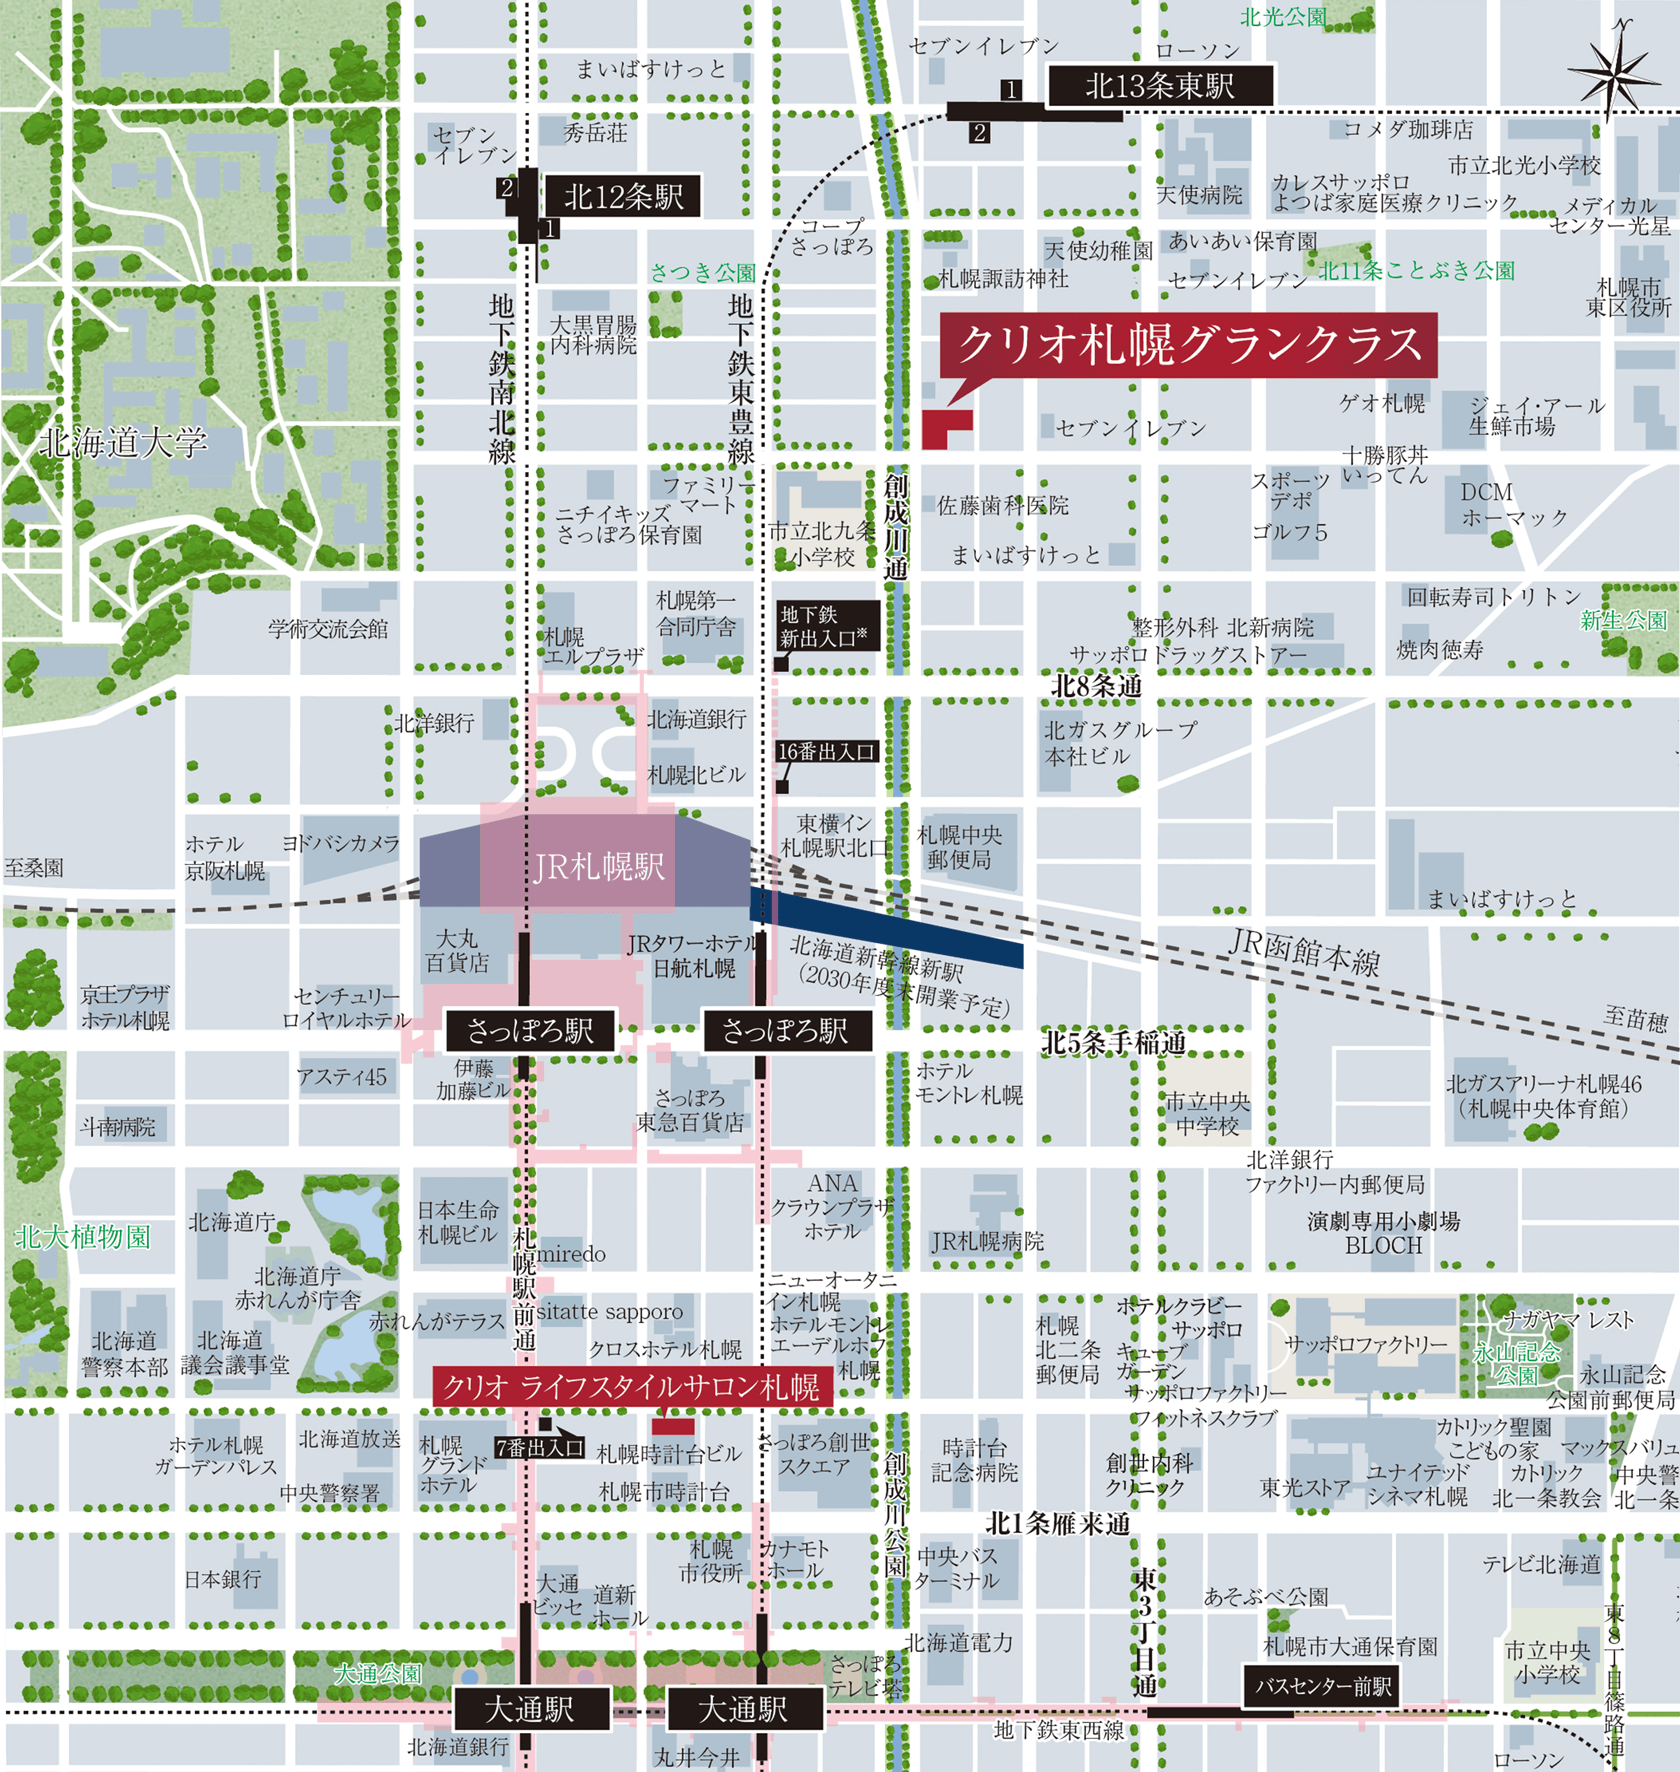
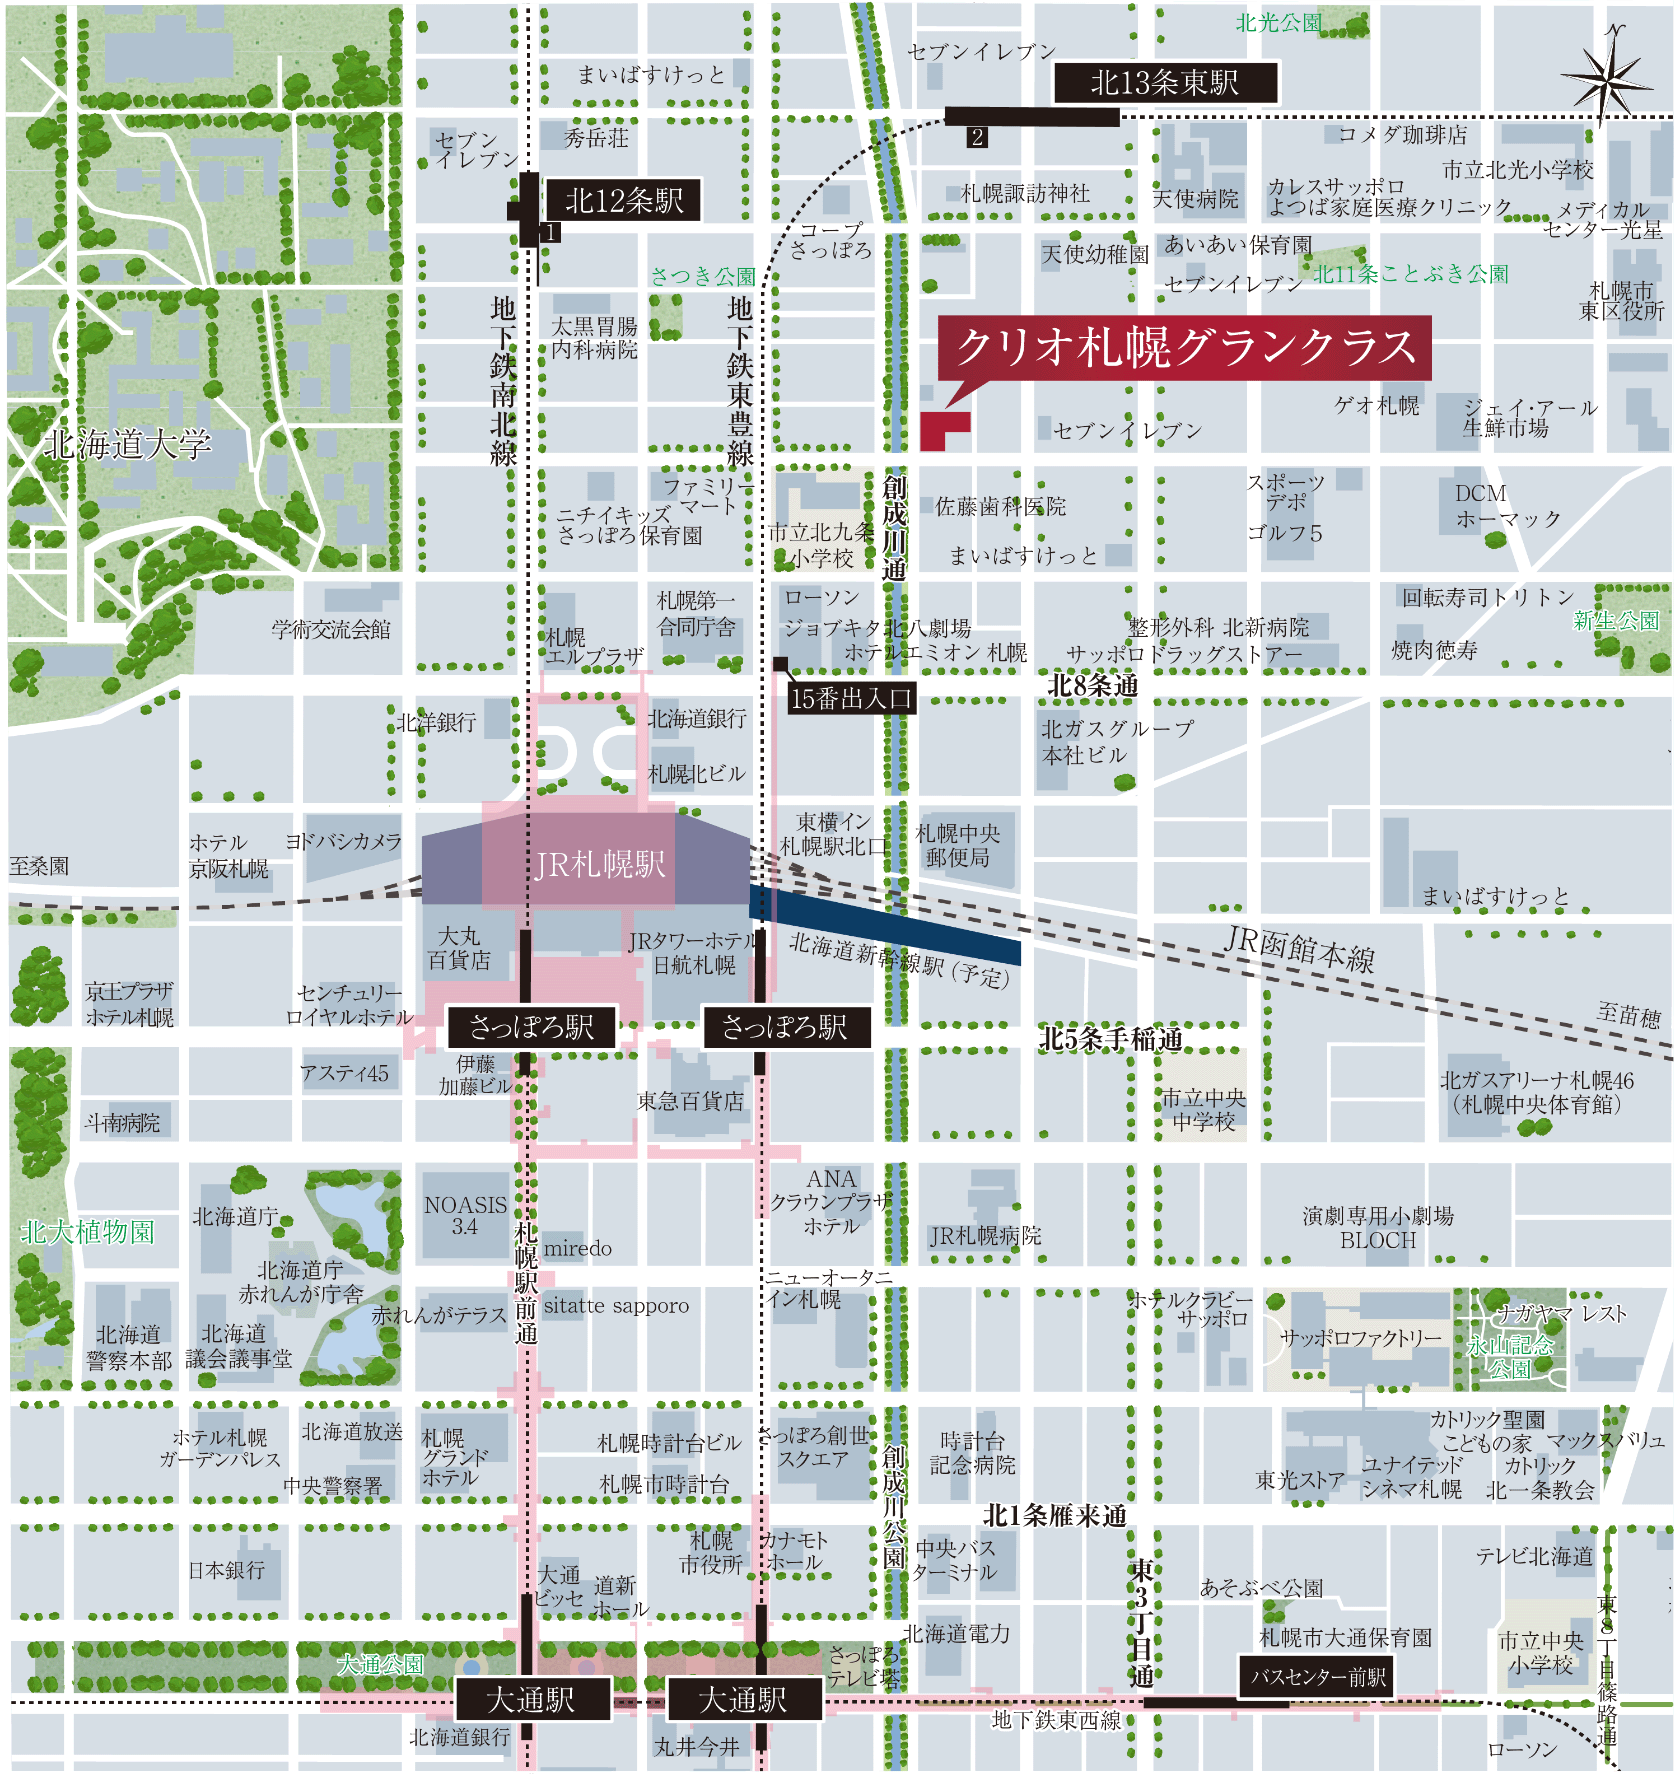
no message

diff --git a/location/index.html b/location/index.html
@@ -205,7 +205,7 @@ KR9NHLL');</script> -->
     
     <li class="fade-in fade-in-up_col3">
       <img src="img/location_shopping13.png" alt="生鮮市場">
-        <p class="caption">ジェイ・アール生鮮市場 北10条店<br>（徒歩8分約600m）</p>
+        <p class="caption">ジェイ・アール生鮮市場 北10条店<br>（徒歩8分／約600m）</p>
     </li>
     
     <li class="fade-in fade-in-up_col4">
@@ -263,22 +263,22 @@ KR9NHLL');</script> -->
 <ul>
     <li class="fade-in fade-in-up">
       <img src="img/location_gourmet02.png" alt="ヒニニツカ">
-        <p class="caption">ヒニニツカ（徒歩11分・約840m）</p>
+        <p class="caption">ヒニニツカ（徒歩8分／約630m）</p>
     </li>
     
         <li class="fade-in fade-in-up_col2">
       <img src="img/location_gourmet03.png" alt="Source72">
-        <p class="caption">Source72（徒歩15分・約1,130m）</p>
+        <p class="caption">Source72（徒歩7分／約560m）</p>
     </li>
     
         <li class="fade-in fade-in-up_col3 ">
       <img src="img/location_gourmet04.png" alt=" オステリア エストエストエスト">
-        <p class="caption">オステリア エストエストエスト<br>（徒歩10分・約740m）</p>
+        <p class="caption">オステリア エストエストエスト<br>（徒歩5分／約380m）</p>
     </li>
     
         <li class="fade-in fade-in-up_col4">
       <img src="img/location_gourmet05.png" alt="CURRY KITCHEN onion">
-        <p class="caption">CURRY KITCHEN onion<br>（徒歩10分・約740m）</p>
+        <p class="caption">CURRY KITCHEN onion<br>（徒歩10分／約780m）</p>
     </li>
 </ul>     
     
@@ -440,14 +440,14 @@ KR9NHLL');</script> -->
         <h4>公園・緑地</h4>
         <ol>
         <dt>創成川</dt><dd>（徒歩1分／約40m）</dd>
-        <dt>さつき公園</dt><dd>（徒歩5分／約340m）</dd>
+        <dt>さつき公園</dt><dd>（徒歩5分／約370m）</dd>
         <dt>北11条ことぶき公園</dt><dd>（徒歩8分／約600m）</dd>
-        <dt>北大イチョウ並木</dt><dd>（徒歩12分／約950m）</dd>
+        <dt>北大イチョウ並木</dt><dd>（徒歩10分／約750m）</dd>
         <dt>光星緑地</dt><dd>（徒歩13分／約1,040m）</dd>
         <dt>新生公園</dt><dd>（徒歩14分／約1,050m）</dd>
-        <dt>北大大野池</dt><dd>（徒歩16分／約1,250m）</dd>
+        <dt>北大大野池</dt><dd>（徒歩16分／約1,220m）</dd>
         <dt>大通公園</dt><dd>（徒歩18分／約1,400m）</dd>
-        <dt>北大平成ポプラ並木</dt><dd>（徒歩30分／約2,390m）</dd>
+        <dt>北大平成ポプラ並木</dt><dd>（徒歩30分／約2,370m）</dd>
         </ol>
         </div><!--end placelist-->
         
@@ -460,7 +460,7 @@ KR9NHLL');</script> -->
         <dt>北海道銀行 札幌駅北口支店</dt><dd>（徒歩8分／約570m）</dd>
         <dt>北警察署札幌駅北口交番</dt><dd>（徒歩9分／約670m）</dd>
         <dt>北洋銀行 北七条支店</dt><dd>（徒歩10分／約750m）</dd>
-        <dt>札幌シネマフロンティア</dt><dd>（徒歩11分／約860m）</dd>
+        <dt>札幌シネマフロンティア</dt><dd>（徒歩11分／約840m）</dd>
         <dt>札幌市東区役所</dt><dd>（徒歩12分／約890m）</dd>
         <dt>札幌文化芸術劇場 (hitaru)</dt><dd>（徒歩15分／約1,140m）</dd>
         <dt>北海道大学総合博物館</dt><dd>（徒歩15分／約1,180m）</dd>
@@ -538,7 +538,7 @@ KR9NHLL');</script> -->
     <p>※距離表示については地図上の概測距離を、徒歩分数表示については80mを1分として算出し、端数を切り上げて算出したものであり、信号待ち、一時停止等は含んでおりません。<br>
 ※掲載の写真は2022年8月に撮影したものに一部CG処理したものです。<br>
 ※掲載の現地周辺地図は、地図を基に描き起こしたもので実際とは異なります。<br>
-※記載の情報は2022年12月現在のものです。</p>
+※記載の情報は2024年8月現在のものです。</p>
   </section>
 
 </section>

diff --git a/include/header_second.html b/include/header_second.html
@@ -78,7 +78,7 @@
                     <a href="../equipment/index.html" class="equipment gtm_click_trg" id="view_header_equipment01">設備・仕様</a>
                   </li>  
                   <li>
-                    <a href="../map/index.html" class="map gtm_click_trg" id="view_header_map01">現地・ライフスタイルサロン案内図</a>
+                    <a href="../map/index.html" class="map gtm_click_trg" id="view_header_map01">現地案内図</a>
                   </li>
                   <li>
                     <a href="../outline/index.html" class="outline gtm_click_trg" id="view_header_outline01">物件概要</a>
@@ -229,7 +229,7 @@
                 </li>
                      
                 <li>
-                  <a href="../map/index.html" class="map gtm_click_trg" id="view_header_map02">現地・ライフスタイルサロン案内図</a>
+                  <a href="../map/index.html" class="map gtm_click_trg" id="view_header_map02">現地案内図</a>
                 </li>
                 <li>
                   <a href="../outline/index.html" class="outline gtm_click_trg" id="view_header_outline02">物件概要</a>

diff --git a/include/header.html b/include/header.html
@@ -69,7 +69,7 @@
                     <a href="equipment/index.html" class="equipment gtm_click_trg" id="view_header_equipment01">設備・仕様</a>
                   </li>
                     <li>
-                    <a href="map/index.html" class="map gtm_click_trg" id="view_header_map01">現地・ライフスタイルサロン案内図</a>
+                    <a href="map/index.html" class="map gtm_click_trg" id="view_header_map01">現地案内図</a>
                   </li>
                   <li>
                     <a href="outline/index.html" class="outline gtm_click_trg" id="view_header_outline01">物件概要</a>
@@ -217,7 +217,7 @@
                   </li>
                        
                   <li>
-                    <a href="map/index.html" class="map gtm_click_trg" id="view_header_map02">現地・ライフスタイルサロン案内図</a>
+                    <a href="map/index.html" class="map gtm_click_trg" id="view_header_map02">現地案内図</a>
                   </li>
                   <li>
                     <a href="outline/index.html" class="outline gtm_click_trg" id="view_header_outline02">物件概要</a>

diff --git a/map/index.html b/map/index.html
@@ -110,14 +110,14 @@ j=d.createElement(s),dl=l!='dataLayer'?'&l='+l:'';j.async=true;j.src=
 
 
     
-    <section class="sec-map salon">
+    <!-- <section class="sec-map salon">
     <div class="inner">
     <div class="imgBox fade">
       <img src="img/salon.png" alt="ライフスタイルサロン札幌">
     </div>
-      <!-- <p class="btn"><a href="https://goo.gl/maps/Yf3k7vp9p29JJ6X26" target="_blank" class="gtm_cv_salon_trg" id="cv_salon">Google Mapで見る</a></p> -->
+      <p class="btn"><a href="https://goo.gl/maps/Yf3k7vp9p29JJ6X26" target="_blank" class="gtm_cv_salon_trg" id="cv_salon">Google Mapで見る</a></p>
     </div>        
-    </section>
+    </section> -->
     
     
 <!-- sec-pickup -->    

diff --git a/include/footer_second.html b/include/footer_second.html
@@ -32,7 +32,7 @@
       <div class="cv-area">
         <ul class="siteLink">
           <li class="map">
-            <a href="../map/index.html" class="gtm_click_trg" id="view_footer_map">＞現地・ライフスタイルサロン案内図</a>
+            <a href="../map/index.html" class="gtm_click_trg" id="view_footer_map">＞現地案内図</a>
           </li>
           <li class="outline">
             <a href="../outline/index.html" class="gtm_click_trg" id="view_footer_outline">＞物件概要</a>

diff --git a/include/footer.html b/include/footer.html
@@ -31,7 +31,7 @@
       <div class="cv-area">
         <ul class="siteLink">
           <li class="map">
-            <a href="map/index.html" class="gtm_click_trg" id="view_footer_map">＞現地・ライフスタイルサロン案内図</a>
+            <a href="map/index.html" class="gtm_click_trg" id="view_footer_map">＞現地案内図</a>
           </li>
           <li class="outline">
             <a href="outline/index.html" class="gtm_click_trg" id="view_footer_outline" >＞物件概要</a>

diff --git a/common/css/style_second.css b/common/css/style_second.css
@@ -123,7 +123,7 @@ margin-top: -15px;
 
 .top-cv-btn {
   position: fixed;
-  top: 20vh;
+  bottom: 15vh;
   right: 0;
   width: 70px;
   z-index: 201;
